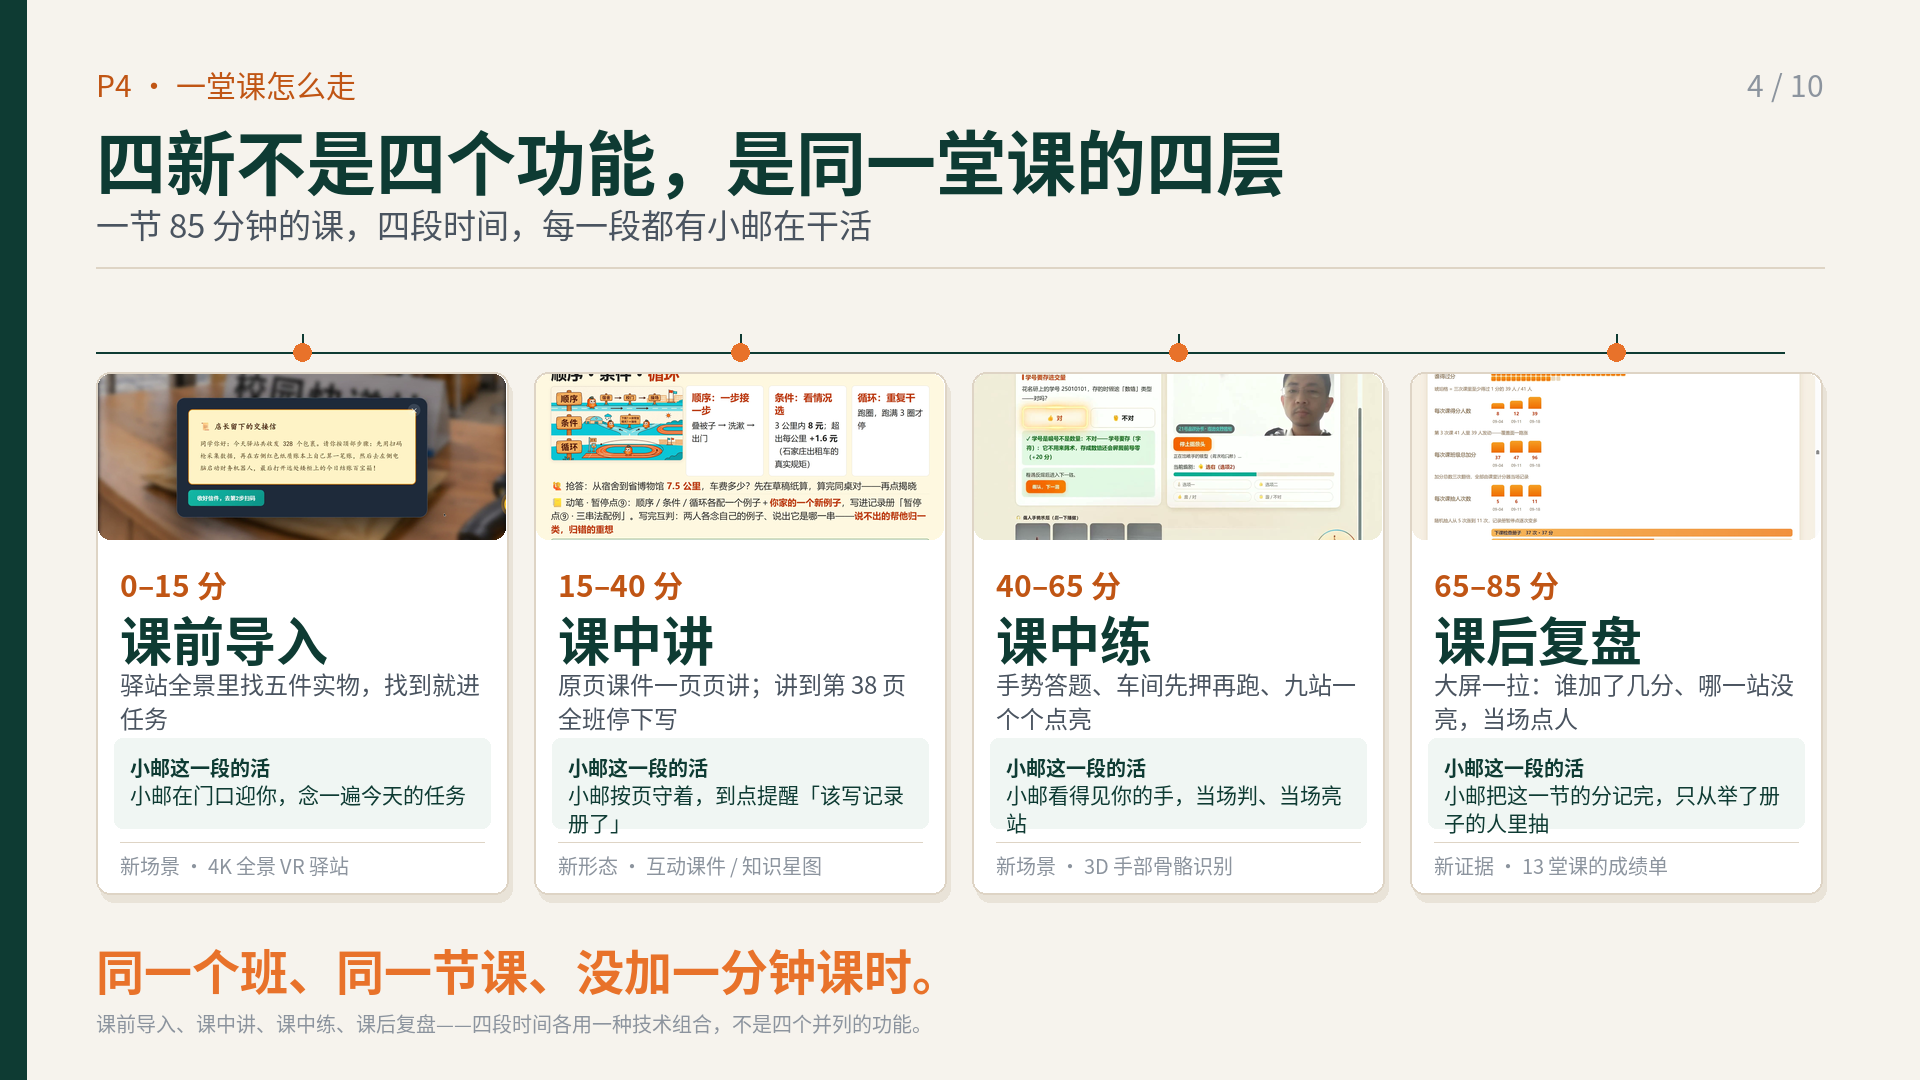
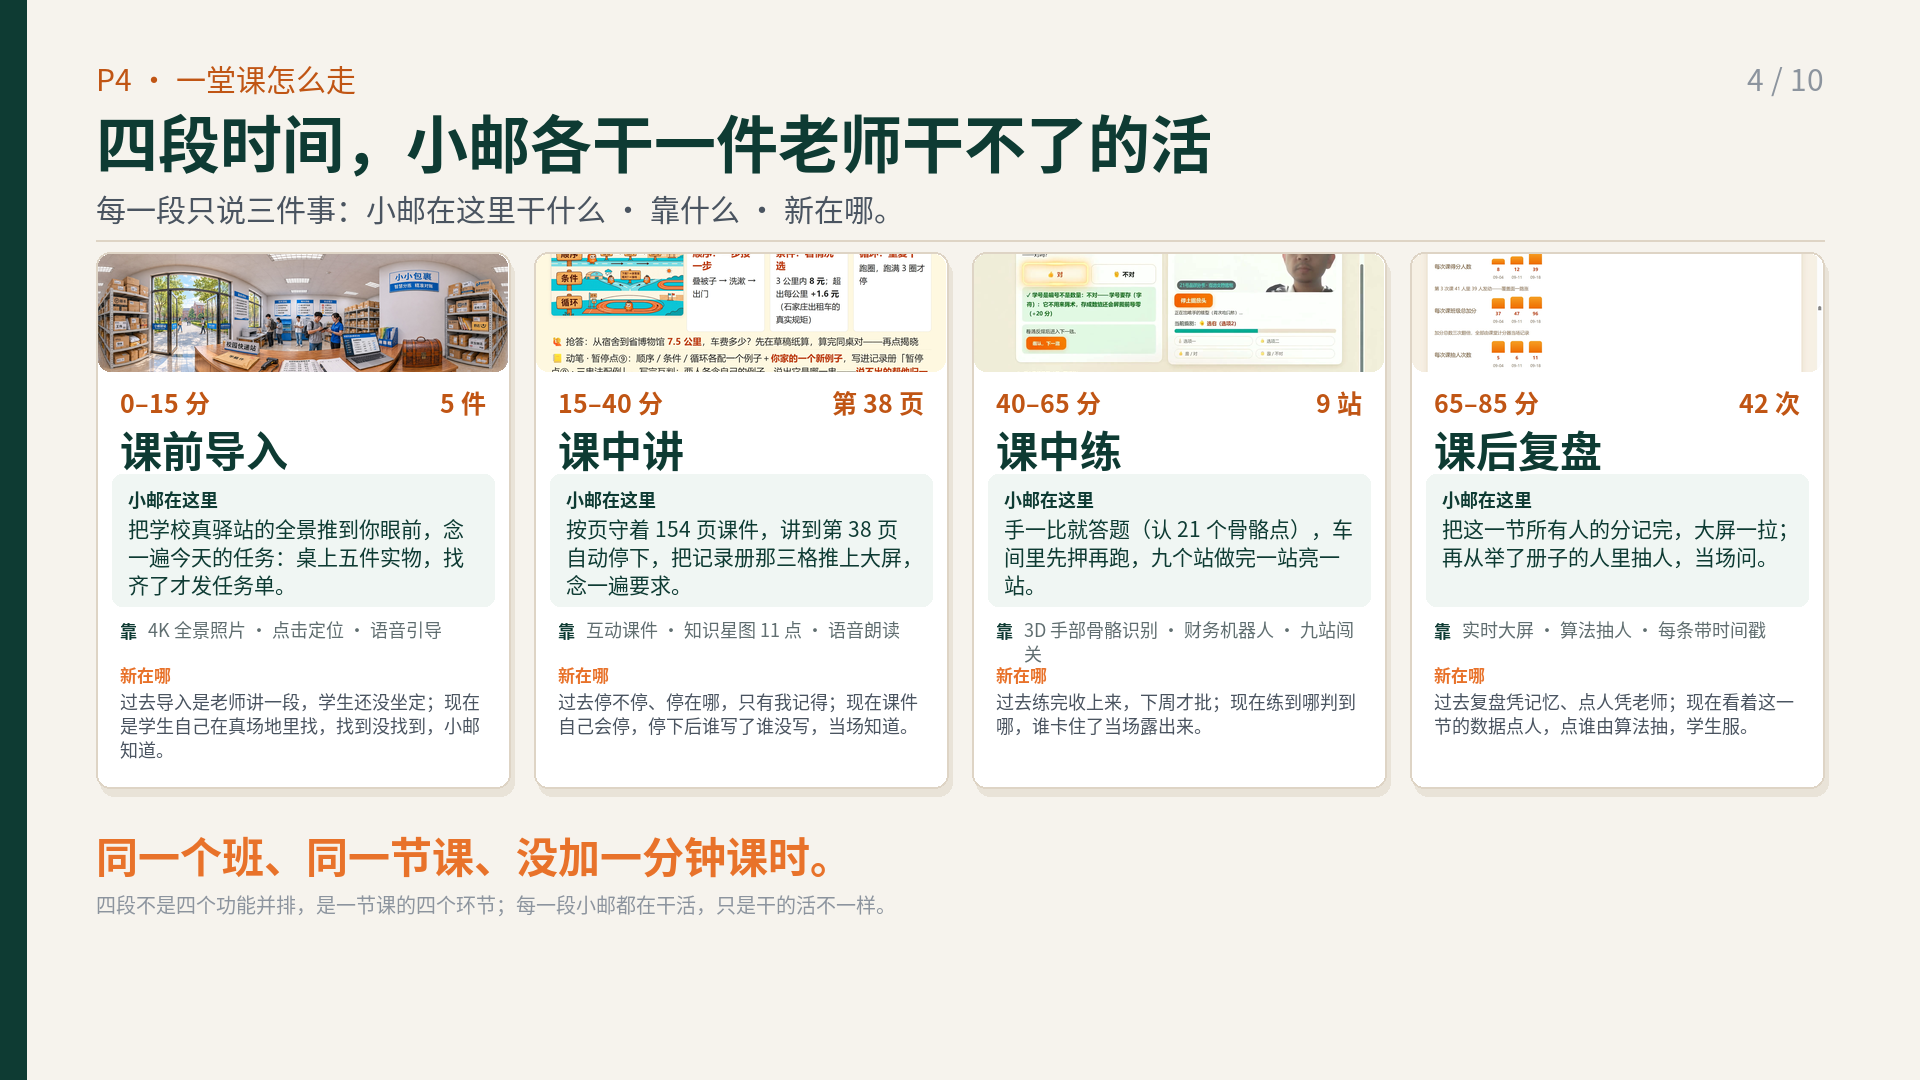
重写P4:每段改为「小邮在这里干什么/靠什么/新在哪」三段式,修掉只有看过视频才懂的省略句(驿站找五件实物/门口迎你);数字移到时间行右侧

diff --git a/数字素养创新项目/核心作品/PPT分页工程/重绘脚本.py b/数字素养创新项目/核心作品/PPT分页工程/重绘脚本.py
@@ -285,44 +285,66 @@ def p3(folder="第03页_四真四新"):
            font=F(27, True), fill=GREEN)
     return cv
 
-# ---------------------------------------------------------------- P4 一堂课怎么走
+# ---------------------------------------------------------------- P4 一堂课怎么走（四段·智能体在干什么）
 def p4(folder="第04页_一堂课怎么走"):
-    cv, d, y = base(4, "P4 · 一堂课怎么走", "四新不是四个功能，是同一堂课的四层",
-                    "一节 85 分钟的课，四段时间，每一段都有小邮在干活", 70)
-    gap = 26
-    cw = (R-L-3*gap)//4
-    axis = 352
-    top = 372
-    chh = 522
-    d.line([(L, axis), (R-40, axis)], fill=GREEN, width=2)
+    cv = Image.new("RGB", (W, H), BG)
+    d = ImageDraw.Draw(cv)
+    d.rectangle([0, 0, 26, H], fill=GREEN)
+    d.text((L, 56), "P4 · 一堂课怎么走", font=F(30), fill=ORD)
+    pn = "4 / 10"; d.text((R-tw(pn, F(30)), 56), pn, font=F(30), fill=LGREY)
+    d.text((L, 96), "四段时间，小邮各干一件老师干不了的活", font=F(62, True), fill=GREEN)
+    d.text((L, 186), "每一段只说三件事：小邮在这里干什么 · 靠什么 · 新在哪。", font=F(30), fill=DGREY)
+    d.line([(L, 240), (R, 240)], fill=LINE, width=2)
+
     cards = [
-        (1, "0–15 分", "课前导入", "驿站全景里找五件实物，找到就进任务",
-         "小邮在门口迎你，念一遍今天的任务", "新场景 · 4K 全景 VR 驿站"),
-        (2, "15–40 分", "课中讲", "原页课件一页页讲；讲到第 38 页全班停下写",
-         "小邮按页守着，到点提醒「该写记录册了」", "新形态 · 互动课件 / 知识星图"),
-        (3, "40–65 分", "课中练", "手势答题、车间先押再跑、九站一个个点亮",
-         "小邮看得见你的手，当场判、当场亮站", "新场景 · 3D 手部骨骼识别"),
-        (4, "65–85 分", "课后复盘", "大屏一拉：谁加了几分、哪一站没亮，当场点人",
-         "小邮把这一节的分记完，只从举了册子的人里抽", "新证据 · 13 堂课的成绩单"),
+        (1, "0–15 分", "课前导入",
+         "把学校真驿站的全景推到你眼前，念一遍今天的任务：桌上五件实物，找齐了才发任务单。",
+         "靠", "4K 全景照片 · 点击定位 · 语音引导",
+         "过去导入是老师讲一段，学生还没坐定；现在是学生自己在真场地里找，找到没找到，小邮知道。",
+         "5 件"),
+        (2, "15–40 分", "课中讲",
+         "按页守着 154 页课件，讲到第 38 页自动停下，把记录册那三格推上大屏，念一遍要求。",
+         "靠", "互动课件 · 知识星图 11 点 · 语音朗读",
+         "过去停不停、停在哪，只有我记得；现在课件自己会停，停下后谁写了谁没写，当场知道。",
+         "第 38 页"),
+        (3, "40–65 分", "课中练",
+         "手一比就答题（认 21 个骨骼点），车间里先押再跑，九个站做完一站亮一站。",
+         "靠", "3D 手部骨骼识别 · 财务机器人 · 九站闯关",
+         "过去练完收上来，下周才批；现在练到哪判到哪，谁卡住了当场露出来。",
+         "9 站"),
+        (4, "65–85 分", "课后复盘",
+         "把这一节所有人的分记完，大屏一拉；再从举了册子的人里抽人，当场问。",
+         "靠", "实时大屏 · 算法抽人 · 每条带时间戳",
+         "过去复盘凭记忆、点人凭老师；现在看着这一节的数据点人，点谁由算法抽，学生服。",
+         "42 次"),
     ]
-    for i, (n, tm, name, desc, duty, tag) in enumerate(cards):
+    gap = 24
+    cw = (R-L-3*gap)//4
+    top = 252
+    chh = 536
+    for i, (n, tm, name, duty, lab2, tech, newtxt, num) in enumerate(cards):
         x0 = L + i*(cw+gap)
-        cx = x0 + cw//2
-        d.line([(cx, axis-18), (cx, axis)], fill=GREEN, width=2)
-        d.ellipse([cx-9, axis-9, cx+9, axis+9], fill=OR)
         rr(d, [x0+4, top+8, x0+cw+4, top+chh+8], 14, fill=(233, 227, 216))
         rr(d, [x0, top, x0+cw, top+chh], 14, fill=WHITE, outline=LINE, w=2)
-        img_at(cv, find_img(folder, n), (x0+2, top+2, x0+cw-2, top+168), 12)
-        d.text((x0+24, top+190), tm, font=F(30, True), fill=ORD)
-        d.text((x0+24, top+228), name, font=F(52, True), fill=GREEN)
-        para(d, (x0+24, top+294), desc, F(24), DGREY, cw-48, 1.45, 2)
-        rr(d, [x0+18, top+366, x0+cw-18, top+chh-66], 8, fill=LGREEN)
-        d.text((x0+34, top+380), "小邮这一段的活", font=F(20, True), fill=GREEN)
-        para(d, (x0+34, top+406), duty, F(21), GREEN, cw-70, 1.35, 2)
-        d.line([(x0+24, top+chh-52), (x0+cw-24, top+chh-52)], fill=LINE, width=1)
-        d.text((x0+24, top+chh-44), tag, font=F(20), fill=LGREY)
-    quote(d, "同一个班、同一节课、没加一分钟课时。", top+chh+40, 48,
-          "课前导入、课中讲、课中练、课后复盘——四段时间各用一种技术组合，不是四个并列的功能。")
+        img_at(cv, find_img(folder, n), (x0+2, top+2, x0+cw-2, top+120), 12)
+        d.text((x0+24, top+132), tm, font=F(25, True), fill=ORD)
+        nf = F(25, True)
+        d.text((x0+cw-24-tw(num, nf), top+132), num, font=nf, fill=ORD)
+        d.text((x0+24, top+166), name, font=F(42, True), fill=GREEN)
+        # 小邮在这里
+        rr(d, [x0+16, top+222, x0+cw-16, top+354], 10, fill=LGREEN)
+        d.text((x0+32, top+234), "小邮在这里", font=F(18, True), fill=GREEN)
+        para(d, (x0+32, top+260), duty, F(21), GREEN, cw-64, 1.35, 3)
+        # 靠什么
+        d.text((x0+24, top+366), "靠", font=F(17, True), fill=GREEN)
+        para(d, (x0+52, top+364), tech, F(18), (96, 110, 112), cw-76, 1.35, 2)
+        # 新在哪
+        d.text((x0+24, top+410), "新在哪", font=F(17, True), fill=OR)
+        para(d, (x0+24, top+436), newtxt, F(18), DGREY, cw-44, 1.35, 4)
+        # 数字
+        nf = F(34, True)
+    quote(d, "同一个班、同一节课、没加一分钟课时。", top+chh+36, 42,
+          "四段不是四个功能并排，是一节课的四个环节；每一段小邮都在干活，只是干的活不一样。")
     return cv
 
 # ---------------------------------------------------------------- P5 新形态
